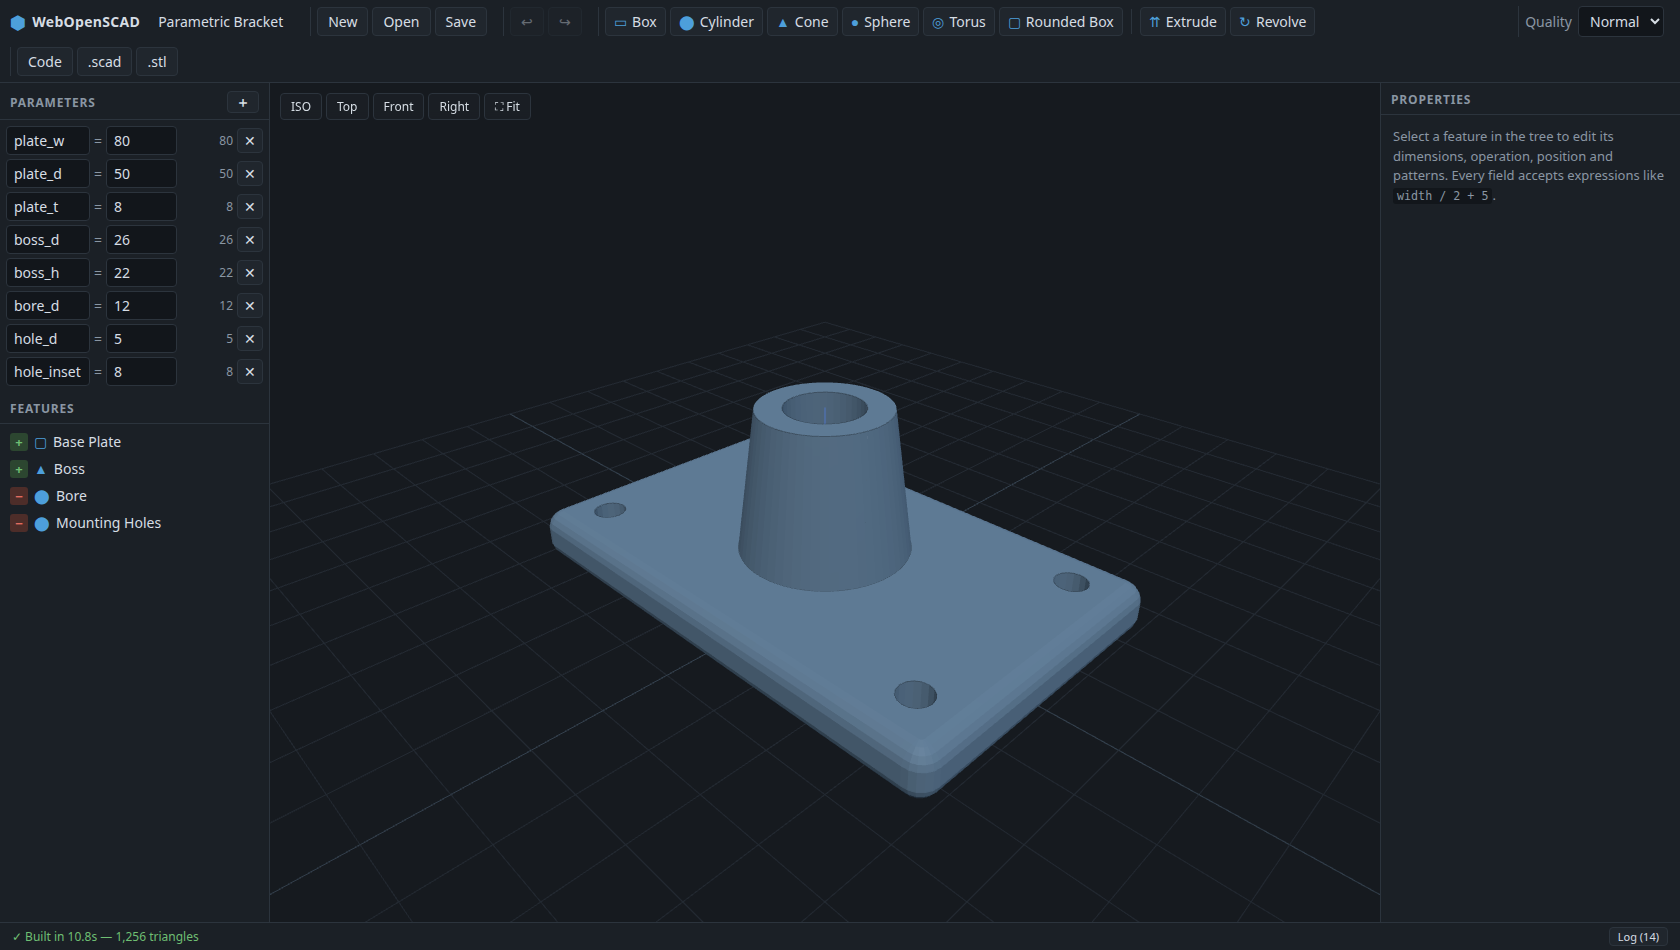
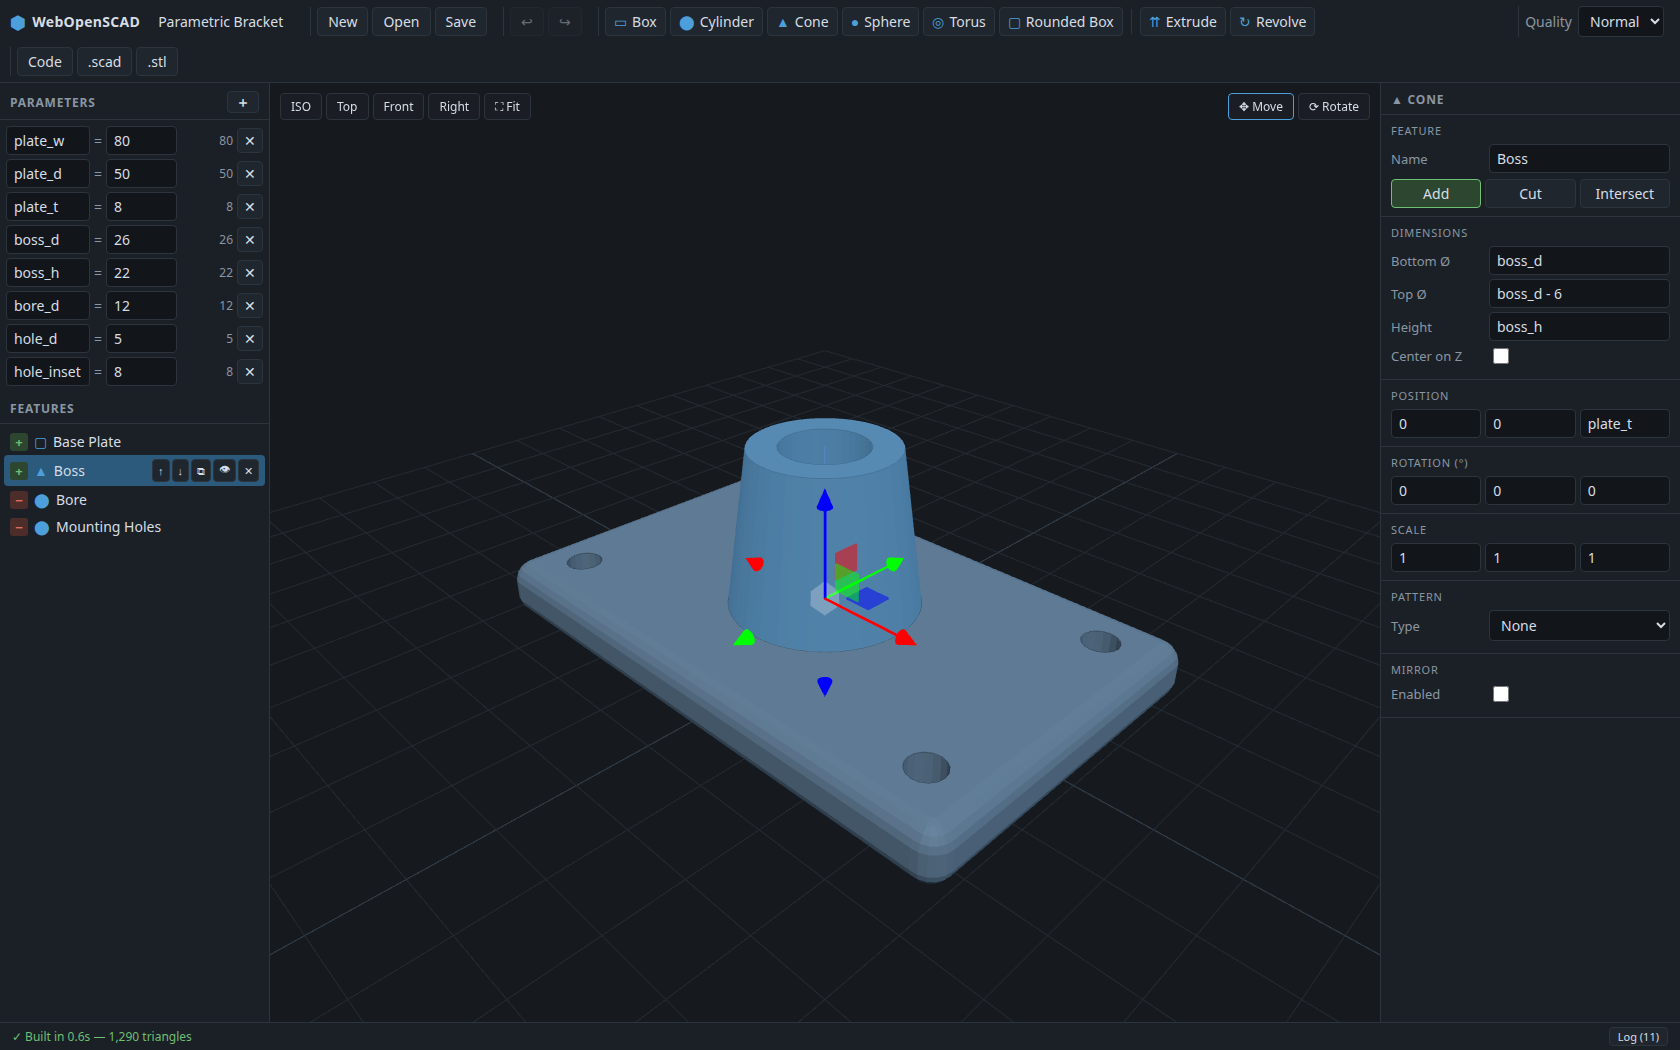
docs: refresh README with getting-started guide and direct-manipulation screenshot

diff --git a/README.md b/README.md
@@ -4,7 +4,7 @@ A web-based **parametric CAD** frontend for OpenSCAD. Model with a SolidWorks/Fu
 feature tree and named parameters — no code required — while OpenSCAD (compiled to
 WebAssembly) does the solid geometry in your browser. Nothing is sent to a server.
 
-![Parametric bracket sample](docs/screenshot.png)
+![Editing a parametric bracket: selected feature with transform gizmo](docs/screenshot.png)
 
 ## Features
 
@@ -12,6 +12,10 @@ WebAssembly) does the solid geometry in your browser. Nothing is sent to a serve
   and sketch-based features (extrude, revolve with rectangle/circle/polygon profiles),
   combined in order with **Add / Cut / Intersect** operations, exactly like the
   Join/Cut/Intersect workflow in Fusion 360.
+- **Direct manipulation in the viewport** — click any feature to select it, then drag
+  the move/rotate gizmo. Drags are written back into your expressions: a position of
+  `plate_w / 2` becomes `plate_w / 2 + 12.5`, so the model stays parametric even after
+  you drag it around. Cut features highlight in red, x-ray style, through walls.
 - **Named parameters with expressions** — every field (dimensions, positions, rotations,
   pattern spacing, …) accepts expressions like `plate_w / 2 - hole_inset`. Change one
   parameter and the whole model rebuilds.
@@ -25,10 +29,16 @@ WebAssembly) does the solid geometry in your browser. Nothing is sent to a serve
 - Runs fully client-side via the official OpenSCAD [nightly WebAssembly builds](https://files.openscad.org/snapshots/)
   with the **Manifold** geometry backend — typical rebuilds take well under a second.
 
-## Running (everything runs in Docker)
+## Getting started
+
+The only prerequisite is [Docker](https://docs.docker.com/get-docker/) with Compose —
+node/npm are never run on the host.
 
 ```bash
-# one-time: install dependencies and download the OpenSCAD WASM engine
+git clone https://github.com/falense/WebOpenSCAD.git
+cd WebOpenSCAD
+
+# one-time: install dependencies and download the OpenSCAD WASM engine (~15 MB)
 docker compose run --rm web sh -c "npm install && npm run fetch-engine"
 
 # start the dev server with hot reload
@@ -36,20 +46,46 @@ docker compose up web
 # → http://localhost:5173
 ```
 
-Production build served by nginx:
+The app opens with a sample parametric bracket. Things to try:
+
+1. Change `plate_w` in the **Parameters** panel — the whole bracket rebuilds, and the
+   mounting holes follow because their positions are expressions of it.
+2. Click the **Boss** in the 3D view and drag the gizmo arrows (**M**/**R** switch
+   move/rotate, hold **Ctrl** to snap, **Esc** deselects).
+3. Add a primitive from the toolbar, set its operation to **Cut**, and reorder it in
+   the feature tree — boolean order is part of the history, like any CAD timeline.
+4. Open **Code** in the toolbar to see the generated OpenSCAD source live, or export
+   it with **.scad** / print it with **.stl**.
+
+### Production build
+
+Served by nginx:
 
 ```bash
 docker compose --profile prod up prod --build
 # → http://localhost:8080
 ```
 
-### Other tasks
+### Development tasks
 
 ```bash
-docker compose run --rm web npm test          # unit tests (expressions, codegen)
+docker compose run --rm web npm test          # unit tests (expressions, codegen, drag write-back)
 docker compose run --rm web npx tsc --noEmit  # typecheck
 docker compose run --rm web npm run build     # production bundle to dist/
 ```
+
+## Controls
+
+| Input | Action |
+| --- | --- |
+| Left-drag / right-drag / wheel | Orbit / pan / zoom |
+| Click feature (viewport or tree) | Select — shows gizmo + highlight |
+| Drag gizmo | Move or rotate the feature (one undo step per drag) |
+| `M` / `R` | Gizmo mode: move / rotate |
+| `Ctrl` (held while dragging) | Snap to 1 mm / 15° |
+| `Esc` | Deselect |
+| `Ctrl+Z` / `Ctrl+Shift+Z` | Undo / redo |
+| `Delete` | Delete selected feature |
 
 ## How it works
 
@@ -64,6 +100,11 @@ Web Worker → OpenSCAD WASM → binary STL
 three.js viewport (STLLoader)
 ```
 
+The viewport additionally builds invisible **proxy meshes** for every feature directly
+from the document (client-side, no compile), which is what makes picking, hover
+highlighting, and instant gizmo dragging possible — the compiled STL remains the
+ground truth for the boolean result.
+
 Key directories:
 
 | Path | Purpose |
@@ -72,6 +113,7 @@ Key directories:
 | `src/engine/` | Compile worker (OpenSCAD WASM) + latest-wins compile queue |
 | `src/state/` | zustand store: document, selection, undo/redo, compile state |
 | `src/components/` | Toolbar, feature tree, parameters, properties, viewport, code panel |
+| `src/viewport/` | Client-side proxy geometry for picking and direct manipulation |
 | `public/openscad/` | OpenSCAD WASM engine (fetched by `npm run fetch-engine`, not committed) |
 
 The expression language is a strict subset of OpenSCAD's (numbers, parameters,